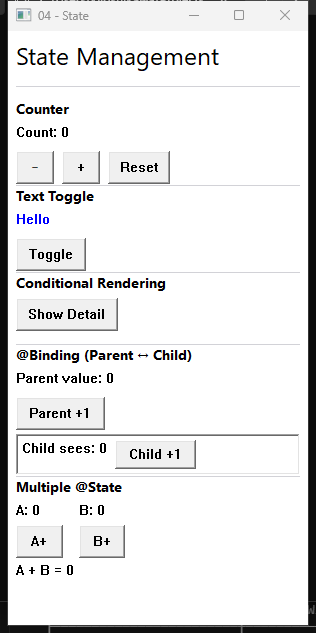
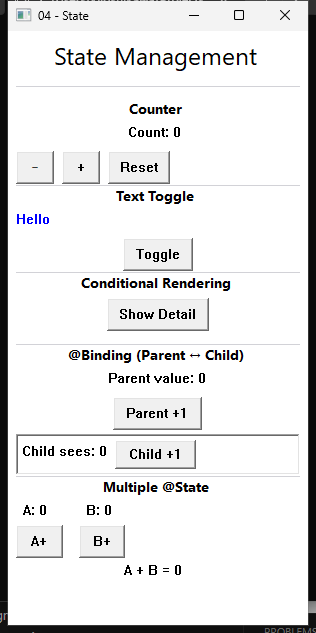
Add VStack/HStack cross-axis alignment, refresh screenshots
VStack now respects HorizontalAlignment (.leading, .center, .trailing)
for positioning leaf controls on the cross-axis. HStack respects
VerticalAlignment (.top, .center, .bottom). Default is .center,
matching SwiftUI behavior.

StackLayoutInfo now carries crossAlignment (0=leading/top, 1=center,
2=trailing/bottom). Containers still fill the full width/height;
only leaf controls (STATIC, BUTTON, EDIT) are positioned by alignment.

Refreshed all 5 Windows screenshots showing centered layout that now
closely matches macOS SwiftUI rendering.

diff --git a/Sources/Backend/Win32/Rendering/LayoutEngine.swift b/Sources/Backend/Win32/Rendering/LayoutEngine.swift
@@ -72,15 +72,19 @@ class StackLayoutInfo {
     let spacing: Int32
     let children: [HWND]
     let flexibleIndices: Set<Int>
+    /// Cross-axis alignment: 0 = leading, 1 = center, 2 = trailing
+    let crossAlignment: Int
     /// Each child's natural (intrinsic) size, captured at creation time.
     /// Used to avoid stretching leaf controls to fill the cross-axis.
     let naturalSizes: [(width: Int32, height: Int32)]
 
-    init(direction: StackDirection, spacing: Int32, children: [HWND], flexibleIndices: Set<Int>) {
+    init(direction: StackDirection, spacing: Int32, children: [HWND],
+         flexibleIndices: Set<Int>, crossAlignment: Int = 1) {
         self.direction = direction
         self.spacing = spacing
         self.children = children
         self.flexibleIndices = flexibleIndices
+        self.crossAlignment = crossAlignment
         // Capture natural sizes now, before any layout stretches them
         self.naturalSizes = children.map { child in
             var r = RECT()
@@ -165,9 +169,13 @@ func performVerticalLayout(container: HWND, info: StackLayoutInfo) {
             childWidth = totalWidth
             childX = 0
         } else {
-            // Leaf controls keep natural width, left-aligned
+            // Leaf controls keep natural width, positioned by alignment
             childWidth = min(naturalW, totalWidth)
-            childX = 0
+            switch info.crossAlignment {
+            case 0:  childX = 0                                // leading
+            case 2:  childX = totalWidth - childWidth          // trailing
+            default: childX = (totalWidth - childWidth) / 2    // center
+            }
         }
 
         SetWindowPos(child, nil, childX, y, childWidth, childHeight, UINT(SWP_NOZORDER))
@@ -215,7 +223,11 @@ func performHorizontalLayout(container: HWND, info: StackLayoutInfo) {
             childY = 0
         } else {
             childHeight = min(naturalH, totalHeight)
-            childY = 0
+            switch info.crossAlignment {
+            case 0:  childY = 0                                 // top
+            case 2:  childY = totalHeight - childHeight         // bottom
+            default: childY = (totalHeight - childHeight) / 2   // center
+            }
         }
 
         SetWindowPos(child, nil, x, childY, childWidth, childHeight, UINT(SWP_NOZORDER))

diff --git a/Sources/Backend/Win32/Rendering/WinRenderer.swift b/Sources/Backend/Win32/Rendering/WinRenderer.swift
@@ -882,11 +882,20 @@ extension VStack: WinRenderable {
             }
         }
 
+        // Map SwiftOpenUI HorizontalAlignment to cross-axis int
+        let crossAlign: Int
+        switch alignment {
+        case .leading:  crossAlign = 0
+        case .center:   crossAlign = 1
+        case .trailing: crossAlign = 2
+        }
+
         let info = StackLayoutInfo(
             direction: .vertical,
             spacing: Int32(spacing),
             children: childHwnds,
-            flexibleIndices: flexibleIndices
+            flexibleIndices: flexibleIndices,
+            crossAlignment: crossAlign
         )
         let infoPtr = Unmanaged.passRetained(info).toOpaque()
         win32_SetWindowLongPtrW(container, GWLP_USERDATA, LONG_PTR(Int(bitPattern: infoPtr)))
@@ -928,11 +937,20 @@ extension HStack: WinRenderable {
             }
         }
 
+        // Map SwiftOpenUI VerticalAlignment to cross-axis int
+        let crossAlign: Int
+        switch alignment {
+        case .top:    crossAlign = 0
+        case .center: crossAlign = 1
+        case .bottom: crossAlign = 2
+        }
+
         let info = StackLayoutInfo(
             direction: .horizontal,
             spacing: Int32(spacing),
             children: childHwnds,
-            flexibleIndices: flexibleIndices
+            flexibleIndices: flexibleIndices,
+            crossAlignment: crossAlign
         )
         let infoPtr = Unmanaged.passRetained(info).toOpaque()
         win32_SetWindowLongPtrW(container, GWLP_USERDATA, LONG_PTR(Int(bitPattern: infoPtr)))
